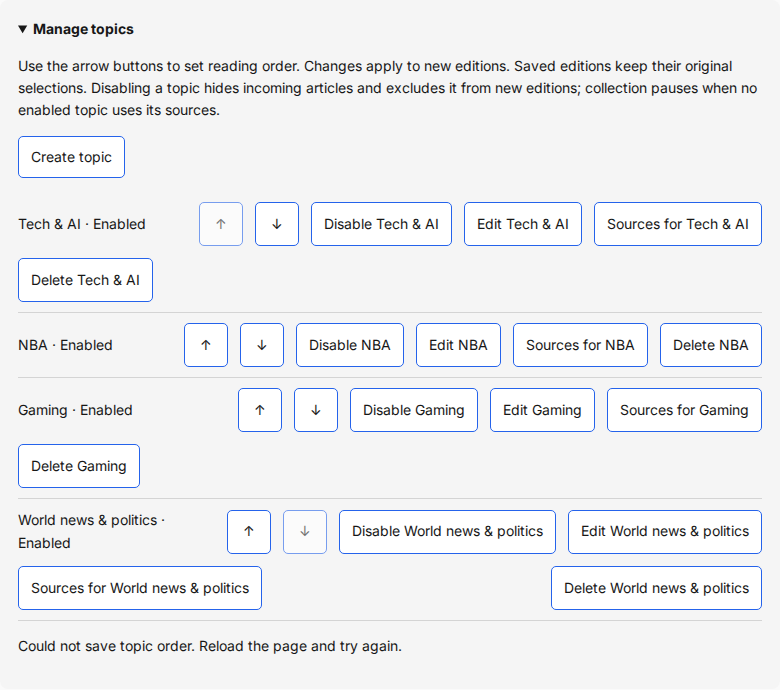
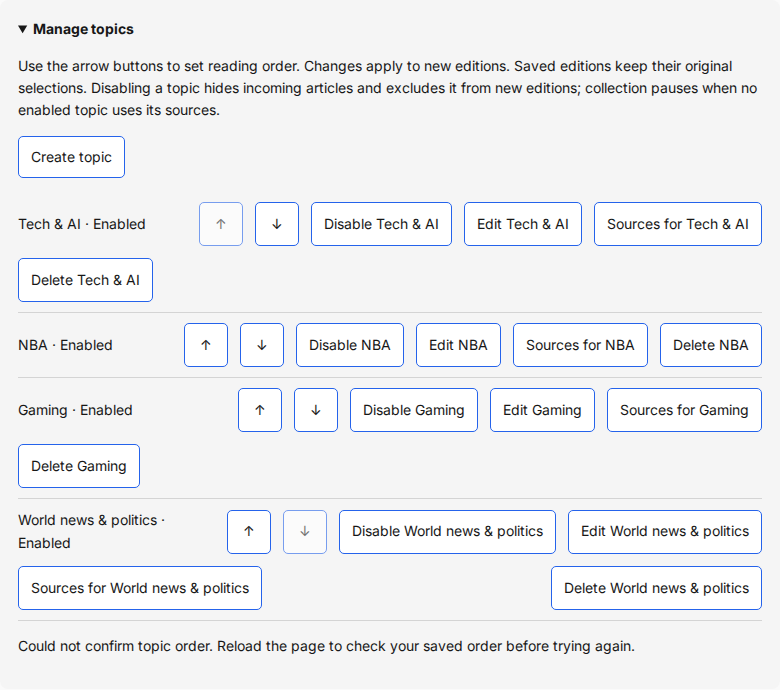
Clarify interrupted topic ordering and verify reload recovery

Changed region(s): [[0.0923, 0.913, 0.8, 0.9435]]

diff --git a/scripts/smoke-topic-order.ts b/scripts/smoke-topic-order.ts
@@ -38,6 +38,7 @@ async function smoke() {
   assert.ok(topics.length >= 2, 'Reorder replay requires two topics');
   let replayTopics = structuredClone(topics);
   let failOrder = true;
+  let loseResponse = false;
   let writes = 0;
   // Browser writes are replayed; protected Node requests are used only for live reads.
   await context.route('**/*', async (route) => {
@@ -63,7 +64,8 @@ async function smoke() {
           ...topics.find((topic) => topic.id === id)!,
           position,
         }));
-        await route.fulfill({ json: replayTopics });
+        if (loseResponse) await route.abort();
+        else await route.fulfill({ json: replayTopics });
       }
       return;
     }
@@ -121,7 +123,7 @@ async function smoke() {
         .click();
       await page
         .getByRole('status')
-        .filter({ hasText: 'Could not save topic order.' })
+        .filter({ hasText: 'Could not confirm topic order.' })
         .waitFor();
       assert.deepEqual(replayTopics, topics);
       assert.equal(writes, writesBefore + 1);
@@ -181,13 +183,47 @@ async function smoke() {
       await page
         .locator('.topic-settings')
         .screenshot({ path: `docs/screenshots/topic-order-${name}.png` });
+      // Save a second order, then lose the response before the browser sees it.
+      loseResponse = true;
+      await page
+        .getByRole('button', {
+          name: `Move ${topics[1].name} down`,
+          exact: true,
+        })
+        .click();
+      await page
+        .getByRole('status')
+        .filter({
+          hasText: 'The topic order may have been saved.',
+        })
+        .waitFor();
+      assert.equal(writes, writesBefore + 3);
+      assert.deepEqual(
+        replayTopics.map((topic) => topic.id),
+        ids,
+      );
+      await page.locator('.topic-settings').screenshot({
+        path: `docs/screenshots/topic-order-interrupted-${name}.png`,
+      });
+      await page.reload();
+      await page.getByText('Manage topics', { exact: true }).click();
+      assert.equal(
+        await page.locator('.topic-grid h3').first().innerText(),
+        topics[0].name,
+      );
+      assert.equal(
+        writes,
+        writesBefore + 3,
+        'Reload must not repeat the reorder',
+      );
+      loseResponse = false;
       assert.deepEqual(errors, []);
       await page.close();
     }
     assert.deepEqual(credentials, []);
     assert.deepEqual(unexpectedWrites, []);
     console.log(
-      'Topic reorder desktop/mobile browser replay: failure, retry, reload, positions and overflow passed; no production writes or generation',
+      'Topic reorder desktop/mobile browser replay: failure, retry, lost saved response, reload without retry, positions and overflow passed; no production writes or generation',
     );
   } finally {
     assert.deepEqual(

diff --git a/apps/web/src/TopicSettings.tsx b/apps/web/src/TopicSettings.tsx
@@ -83,17 +83,23 @@ export function TopicSettings({
     ];
     setBusy(true);
     setMessage('');
+    let responseReceived = false;
     try {
       const response = await fetch('/api/topics/order', {
         method: 'PUT',
         headers: { 'Content-Type': 'application/json' },
         body: JSON.stringify({ ids: ordered.map((topic) => topic.id) }),
       });
+      responseReceived = true;
       if (!response.ok) throw new Error();
       onReordered(topicSchema.array().parse(await response.json()));
       setMessage('Topic order saved. New editions will use this order.');
     } catch {
-      setMessage('Could not save topic order. Reload the page and try again.');
+      setMessage(
+        responseReceived
+          ? 'Could not confirm topic order. Reload the page to check your saved order before trying again.'
+          : 'The connection was interrupted. The topic order may have been saved. Reload the page to check your saved order before trying again.',
+      );
     } finally {
       setBusy(false);
     }

diff --git a/PROGRESS.md b/PROGRESS.md
@@ -135,3 +135,12 @@
 - Verification: pnpm format; pnpm lint:fix; pnpm build; pnpm check; smoke-topic-delete.ts; smoke-admin-gate.ts; git diff --check. All passed: static checks, 497 unit and 214 isolated integration tests, desktop/mobile recovery and admin gate. Initial browser build timing and collapsed-manager setup corrected before rerun.
 - Rebuilt app and restarted API; /healthz OK. Worker runtime unchanged. Archived progress 797–798; TASKS updated. SOURCES/NEEDS_FROM_HUMAN unchanged (no source changes/new blockers). No live writes or paid calls.
 - Next FIRST: Nov 5 15:00 UTC NBA/grouping/cost/latency review, fallback before scorer; X rounds after 21:00 UTC Nov 5/6. Admin identity/proxy verification remains pending.
+
+## 2026-11-05: iteration 814 — clarify interrupted topic ordering
+
+- Started clean on main; no leftover work. Health/database/Redis and four services green; all 36 sources healthy, digest queue has zero failures and next edition is 15:00 UTC. Metrics memory alert pending; benchmark remains deferred.
+- Topic ordering now warns that an interrupted response may follow a completed save and directs the reader to reload saved order before retrying. Unconfirmed HTTP responses also give explicit reload guidance.
+- Desktop/mobile replay covers non-JSON rejection/retry, saved positions, successful reload, and a saved reorder whose response is lost; reload recovers it without another PUT. Protected full live topics/profile/edition unchanged; browser credential/write guards pass. Interrupted screenshots inspected.
+- Verification: pnpm format; pnpm lint:fix; pnpm build; pnpm check; pnpm test:integration; smoke-topic-order.ts; smoke-admin-gate.ts; git diff --check. Static checks, 497 unit and 214 isolated integration tests pass. Full check terminated (143) at integration 149 without failures; standalone integration rerun passed (0). First browser run preceded build completion; post-build rerun passed.
+- Rebuilt app and restarted API; /healthz OK and latest reader edition returns four topics. Worker unchanged. TASKS updated; SOURCES/NEEDS_FROM_HUMAN unchanged (no source changes/new blockers). No live writes or paid calls.
+- Next FIRST: Nov 5 15:00 UTC NBA/grouping/cost/latency review, fallback before scorer; X rounds after 21:00 UTC Nov 5/6. Admin identity/proxy verification remains pending.

diff --git a/TASKS.md b/TASKS.md
@@ -45,6 +45,8 @@ STEERING overrides older milestone notes; implementation history is in PROGRESS.
 
 ## Done markers
 
+- [x] Topic order recovery (814): interrupted responses warn the order may have saved; desktop/mobile replay verifies reload recovers the saved order without repeating the write.
+
 - [x] Topic deletion recovery (813): interrupted responses warn deletion may have completed; desktop/mobile replay reloads saved topics without retry and verifies live data unchanged.
 
 - [x] Topic save outcomes (812): interrupted responses retain edits and advise checking saved topics; desktop/mobile replay verifies completed save with lost response, reload without retry, non-JSON rejection and unchanged live data.
